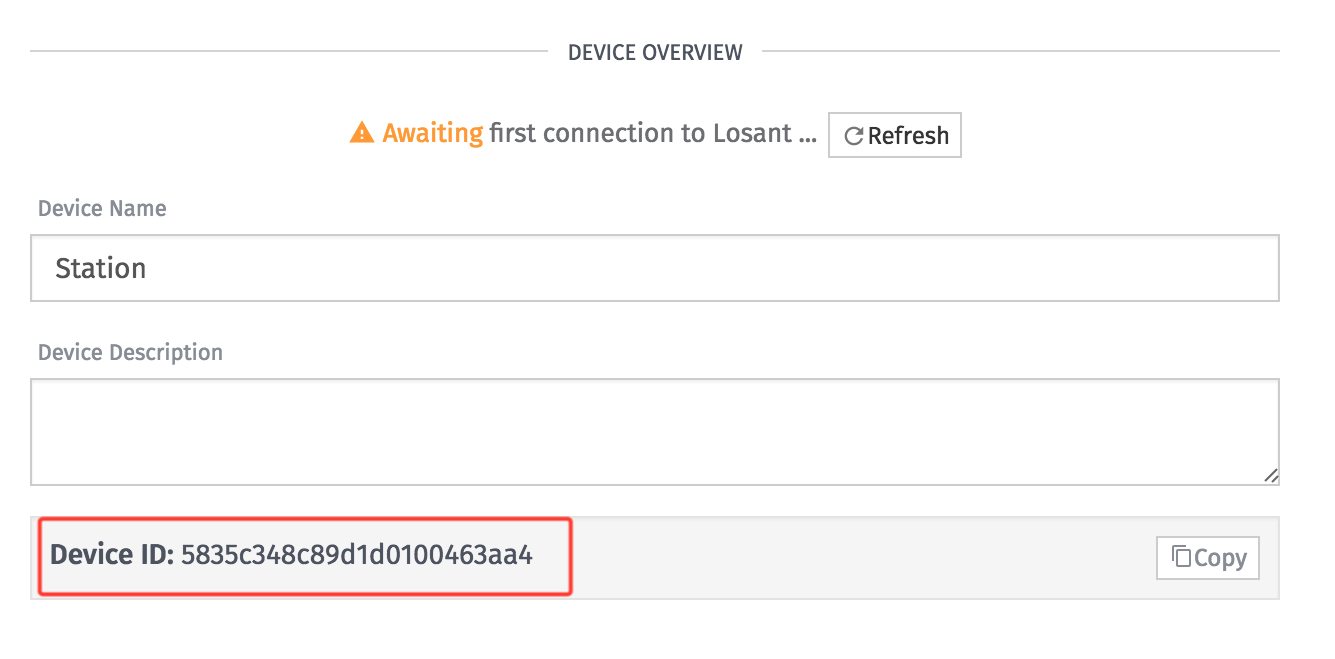
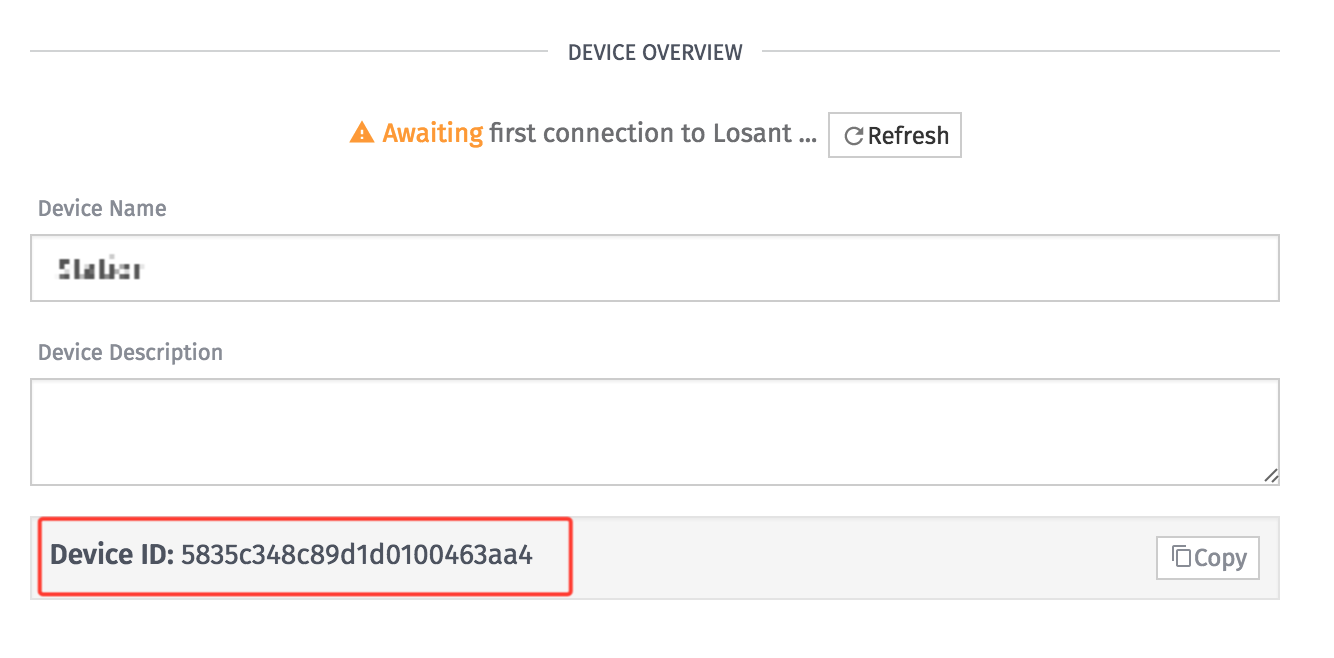
Fix screenshots and add more details to LCD instructions

diff --git a/docs/getting-started/losant-iot-dev-kits/lcd-kit.md b/docs/getting-started/losant-iot-dev-kits/lcd-kit.md
@@ -1,10 +1,12 @@
 # LCD Kit Instructions
 
-The <a href="https://store.losant.com/products/losant-lcd-kit" target="_blank"> LCD Kit</a> includes everything required to create your own personal weather station. These instructions provide a step-by-step overview to build and configure your own desk station. This station displays the time, outside temperature, a summary of the outside weather, and inside temperature. With this kit, you could even display other bits of information besides weather.
+The <a href="https://store.losant.com/products/losant-lcd-kit" target="_blank"> LCD Kit</a> includes everything to add a display to your hardware project. These instructions provide a step-by-step overview to build and configure your own Internet-connected weather station. This station displays a summary of the outside weather, temperature, time. However, with this kit, you could display other bits of information besides weather.
 
 ![Weather Station](/images/getting-started/losant-iot-dev-kits/lcd-kit/weather-station.jpg "Weather Station")
 
 As you follow these instructions, if you run into any issues, please refer to the [Losant Documentation](https://docs.losant.com) and the [Losant Forums](https://forums.losant.com) for help.
+
+## Materials
 
 Your kit should include the following items:
 
@@ -32,7 +34,7 @@ Your kit should include the following items:
 
 ## 1. Environment Setup
 
-In order to properly program the kit's microcontroller, please follow the [environment setup instructions](/getting-started/losant-iot-dev-kits/environment-setup/). These steps only need to be completed once, so if you've already done this for a previous kit, you can skip this step.
+In order to properly program the kit's microcontroller, please follow the **<a href="/getting-started/losant-iot-dev-kits/environment-setup/" target="_blank">environment setup instructions</a>**. The NodeMCU included in this kit is programmed using the Arduino toolchain. These steps only need to be completed once, so if you've already done this for a previous kit, you can skip this step.
 
 ## 2. Wiring
 
@@ -59,15 +61,15 @@ In this step we're going to to connect the temperature sensor and LCD to the mic
 
 ## 3. Losant Setup
 
-In this section, you’ll register for a Losant account, create your application, and add the device for your LCD kit.
+In this section, you’ll register for a Losant account, create your application, and add a device for your kit.
 
 ### Create Account
 
-If you don't already have an account, navigate to [https://accounts.losant.com/create-account](https://accounts.losant.com/create-account) to register.
+If you don't already have an account, navigate to Losant to <a href="https://accounts.losant.com/create-account" target="_blank"> creat account </a>.
 
 ### Create Application
 
-Create an application for the moisture sensor kit. You can name it whatever you want.
+In Losant, every thing starts with an application. All devices and workflows belong to applications. So, **create an application** and you can name it whatever you want.
 
 ![Create Application](/images/getting-started/losant-iot-dev-kits/builder-kit/create-application.png "Create Application")
 
@@ -75,7 +77,9 @@ Create an application for the moisture sensor kit. You can name it whatever you 
 
 ### Add Device
 
-The next step is to register the device with the platform. Click the `Add Device` button on the top right or select `Add Device` from the Devices dropdown. Next, choose the `Create from Scratch` option.
+A device in Losant is a single thing or widget. A device could be car, thermostat, smart bulb, or any kind of custom gadget. Devices can contain many sensors or attached peripherals. In this example, our device is our weather station.
+
+The next step is to register the device with the platform. **Select `Add Device` from the Devices dropdown. Next, choose the `Create from Scratch` option.**
 
 ![Add Device Menu](/images/getting-started/losant-iot-dev-kits/lcd-kit/add-device.png "Add Device Menu")
 
@@ -86,11 +90,11 @@ The next step is to register the device with the platform. Click the `Add Device
 1. Name the device anything you want.
 1. "Description" can be left blank, or fill it with whatever you want.
 1. For "Device Type", leave "Standalone" selected.
-1. No device tags are required.
+1. No <a href="/devices/overview/#device-tags" target="_blank">device tags</a> are required.
 1. Add a device attribute with the name "tempC" and the type `Number`.
 1. Add a device attribute with the name "tempF" and the type `Number`.
 
-The device attributes specify what state information the device reports. The firmware that you’ll flash in the following sections will report the raw moisture level from the sensor every minute. Device attributes are ***case sensitive***, so make the name is ***all lowercase***.
+The device attributes specify what state information the device reports. The firmware that you’ll flash in the following sections will report whenever a button is pressed, the temperature in Celsius (tempC), and the temperature in Fahrenheit (tempF). Device attributes are ***case sensitive***, so make the name is ***all lowercase***.
 
 Click the `Create Device` button. The screen will change and show the device’s ID. This ID is required for the following sections. You might want to copy/paste it somewhere convenient.
 
@@ -100,7 +104,7 @@ Click the `Create Device` button. The screen will change and show the device’s
 
 Now we need to generate some security tokens so your device can authenticate against the Losant platform. Select `More > Access Keys` from the application menu.
 
-![Access Keys Menu](/images/getting-started/losant-iot-dev-kits/builder-kit/access-keys.png "Access Keys Menu")
+![Access Keys Menu](/images/getting-started/losant-iot-dev-kits/lcd-kit/access-keys.png "Access Keys Menu")
 
 Generate an access key that provides access to all devices in your application.
 
@@ -138,7 +142,7 @@ With the Arduino IDE, use the `File -> Open` menu to navigate to where you downl
 
 Your code will automatically be saved as part of the upload process when it's flashed to the device. After editing the code, open the Arduino IDE's Serial Monitor and change the baud rate to 115200. The serial monitor can be opened using the button on the top right of the Arduino IDE or using the `Tools -> Serial Monitor` menu.
 
-![Open Serial Monitor](/images/getting-started/losant-iot-dev-kits/moisture-sensor/serial-monitor-button.png "Open Serial Monitor")
+![Open Serial Monitor](/images/getting-started/losant-iot-dev-kits/lcd-kit/serial-monitor-button.png "Open Serial Monitor")
 
 ![Serial Monitor Baud](/images/getting-started/losant-iot-dev-kits/builder-kit/serial-monitor-baud.png "Serial Monitor Baud")
 
@@ -146,9 +150,9 @@ The serial monitor won't print any information until we flash the device with th
 
 Upload the firmware to the device by clicking the `Upload` button or the `Sketch -> Upload` menu. This will take a few seconds and the microcontroller will rapidly blink a blue light while it’s uploading.
 
-![Upload Button](/images/getting-started/losant-iot-dev-kits/moisture-sensor/upload-button.png "Upload Button")
+![Upload Button](/images/getting-started/losant-iot-dev-kits/lcd-kit/upload-button.png "Upload Button")
 
-After the upload is complete, the Serial Monitor should start printing information about it connecting to WiFi and Losant. It may also print some garbage, but that's just part of the board booting up. It will then print the moisture level every minute.
+After the upload is complete, the Serial Monitor should start printing information about it connecting to WiFi and Losant. It may also print some garbage, but that's just part of the board booting up.
 
 ![Serial Output](/images/getting-started/losant-iot-dev-kits/lcd-kit/serial-output.png "Serial Output")
 
@@ -162,7 +166,7 @@ It’s now time to display the rest of the weather data on the LCD screen.
 
 ## 5. Displaying Data on LCD
 
-As we've seen, Losant can capture state from the device. Losant can also send commands back to the device. In this case, we can send a command to the device with infomation we want it to display on the screen. In the firmware we flashed, there is a function called `handleCommand`:
+As we've seen, Losant can capture state from the device. Losant can also send commands back to the device. In this case, we can send a command to the device with information we want it to display on the screen. In the firmware we flashed, there is a function called `handleCommand`:
 
 ```C
 void handleCommand(LosantCommand *command) {
@@ -187,16 +191,17 @@ void handleCommand(LosantCommand *command) {
 }
 ```
 
-As you can see, we are looking for a command called `refresh`. If received, it will print `L1` (Line One) and `L2` (Line Two) to the LCD screen. This allows us to easily edit and control what the screen displays with out having to continuously
-flash the device with new firmware.
+The <a href="/mqtt/arduino/" target="_blank">Losant Arduino firmware</a> uses MQTT to communication with devices. Once a MQTT payload is received, `handleCommand` will be called. As you can see, we are looking for a command called `refresh`. If received, it will print `L1` (Line One) and `L2` (Line Two) to the LCD screen. This allows us to easily edit and control what the screen displays with out having to continuously flash the device with new firmware.
 
-We are already tracking the inside temperature. This is the temperature you see displayed in the Serial output. Now, we need to get the outside weather and time to display on the screen.
+We have the inside temperature data - this is the temperature displayed in the Serial output. Now, we need to get the outside weather and time to display it. We will use a <a href="/workflows/overview/" target="_blank">workflow</a> for this.
 
-First, create a new workflow and name it whatever you want.
+### Create a Workflow
+
+Workflows are the primary way for your devices to communicate with each other and other services. Workflows allow you to trigger notifications, create events, send commands, and many more. Workflows are basically the brains of your connected solution.
+
+**First, create a new workflow and name it whatever you want.**
 
 ![Create Workflow](/images/getting-started/losant-iot-dev-kits/lcd-kit/create-workflow.png "Create Workflow")
-
-![Workflow Settings](/images/getting-started/losant-iot-dev-kits/lcd-kit/workflow-settings.png "Workflow Settings")
 
 ### Import Workflow
 
@@ -214,7 +219,7 @@ Let's talk about how this workflow works. All workflows start with a trigger. Fo
 
 ### Node Errors
 
-You'll notice that there are two nodes that have small error icons: the `On Connect` trigger and the `Device Command` output. These have errors because they need a device to be configured. Click on each of them and select your device from the dropdown. All two nodes should be configured for the same device.
+You'll notice that there are two nodes that have small error icons: the `On Connect` trigger and the `Device Command` output. These have errors because they need a device to be configured. Click on each of them and select your device from the dropdown. The two nodes should be configured for the same device.
 
 ![Nodes with Errors](/images/getting-started/losant-iot-dev-kits/lcd-kit/nodes-with-errors.png "Nodes with Errors")
 
@@ -222,7 +227,7 @@ Lets walkthrough the other nodes and make sure that they are properly configured
 
 ### Timer
 
-A <a href="https://store.losant.com/products/losant-lcd-kit" target="_blank">Timer</a> node will simply just execute this workflow on a interval you define.
+A <a href="https://store.losant.com/products/losant-lcd-kit" target="_blank">Timer</a> node will trigger on a interval you define.
 
 ![Workflow Timer](/images/getting-started/losant-iot-dev-kits/lcd-kit/workflow-timer.png "Workflow Timer")
 
@@ -276,9 +281,9 @@ Time is now appended to our payload to send later.
 
 ### Math
 
-Sometimes we need to do some simple calculations to our data before sending it some where else. In this case, since we have limited space on the LCD screen, we want our temperatures to be whole numbers, not decimals. We can use the <a href="https://docs.losant.com/workflows/logic/math/" target="_blank">Math</a> node to solve this problem.
+In many situations, we need to do some simple calculations to our data before sending it some where else. In this case, since we have limited space on the LCD screen, we want our temperatures to be whole numbers, not decimals. Losant provides a <a href="https://docs.losant.com/workflows/logic/math/" target="_blank">Math</a> node to solve this problem.
 
-![Workflow Math](/images/getting-started/losant-iot-dev-kits/lcd-kit/workflow-timer.png "Workflow Math")
+![Workflow Math](/images/getting-started/losant-iot-dev-kits/lcd-kit/workflow-math.png "Workflow Math")
 
 In our math node, we can round the temperature:
 
@@ -316,7 +321,7 @@ This workflow is just a starting point. Losant can connect this device to many d
 
 Since the firmware accepts line one and line two, you can send it any data for all different types of projects!
 
-<a href="https://twitter.com/share" class="twitter-share-button" data-url="https://store.losant.com/products/losant-moisture-sensor-kit" data-text="Green thumb activated! Just installed my @LosantHQ  #IoT moisture sensor kit" data-size="large">Tweet</a>
+<a href="https://twitter.com/share" class="twitter-share-button" data-url="https://store.losant.com/products/losant-lcd-kit" data-text="Just installed my @LosantHQ  #IoT LCD kit" data-size="large">Tweet</a>
 <script>!function(d,s,id){var js,fjs=d.getElementsByTagName(s)[0],p=/^http:/.test(d.location)?'http':'https';if(!d.getElementById(id)){js=d.createElement(s);js.id=id;js.src=p+'://platform.twitter.com/widgets.js';fjs.parentNode.insertBefore(js,fjs);}}(document, 'script', 'twitter-wjs');</script>
 
 Don't stop now! Losant has several kits available.
